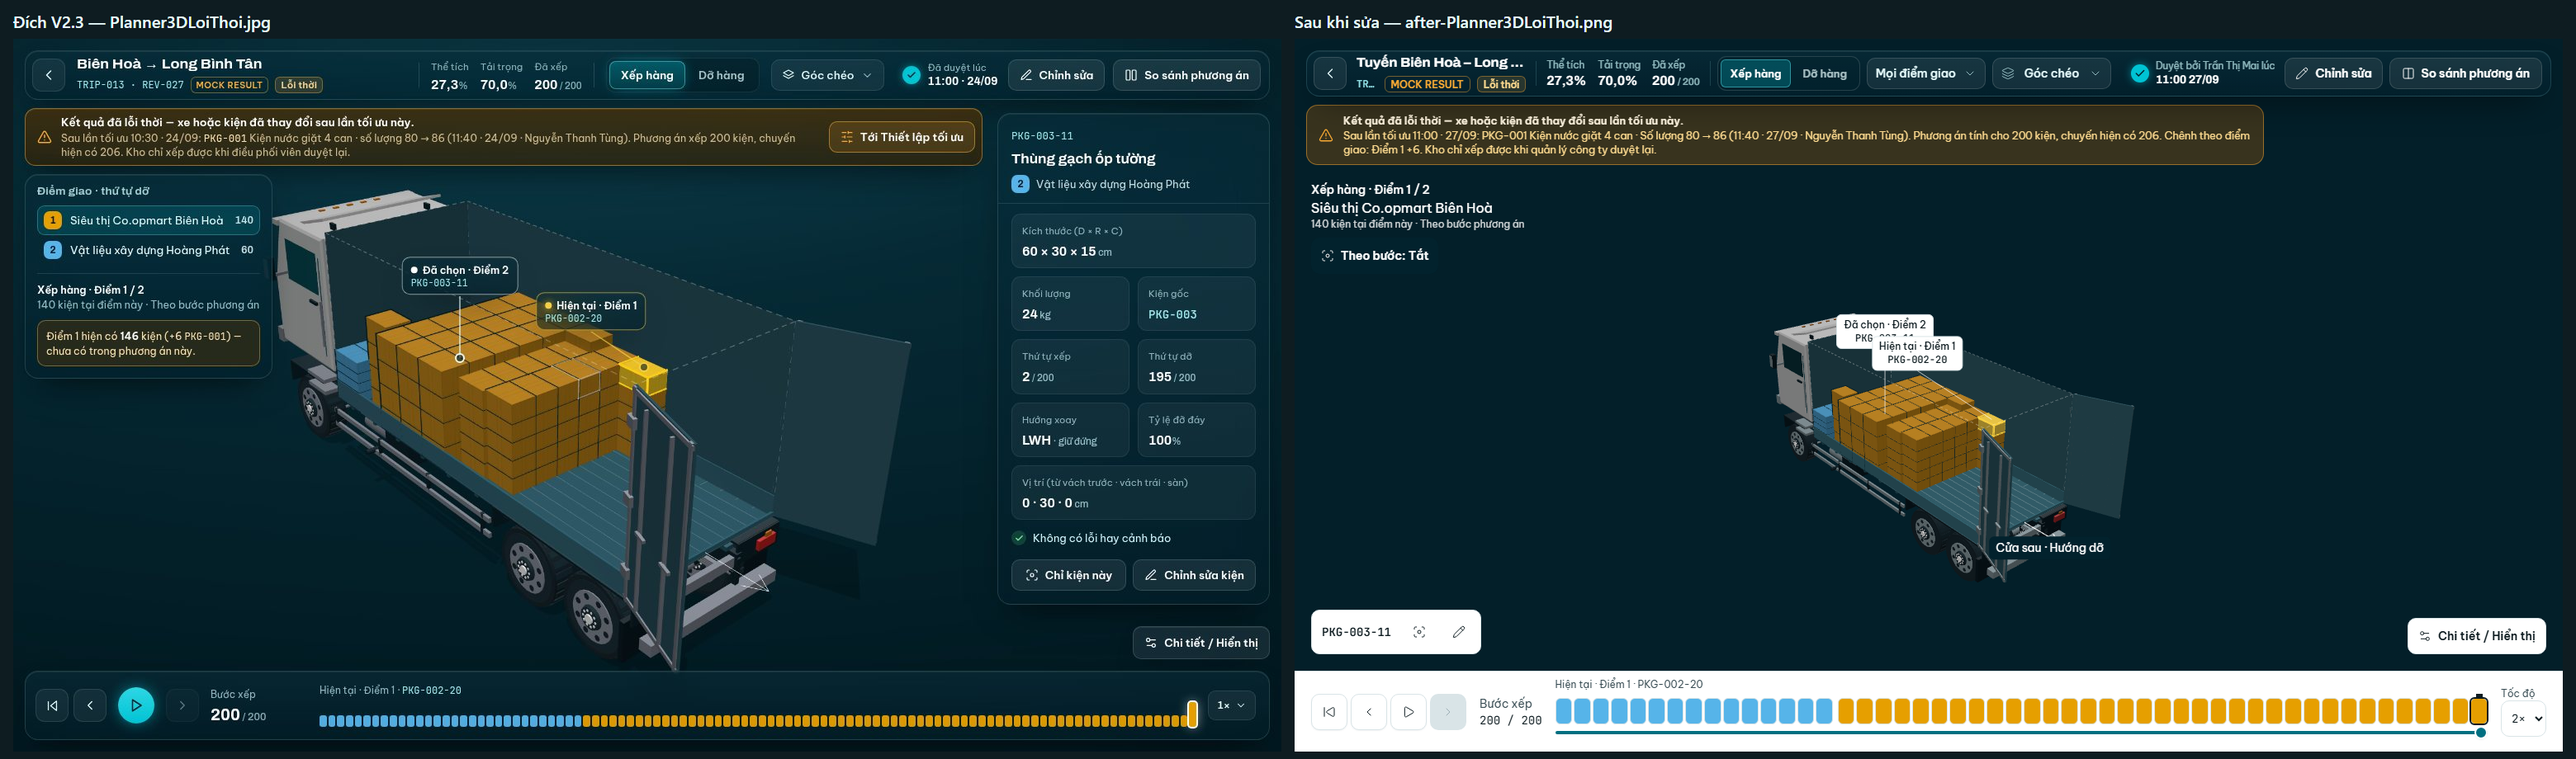
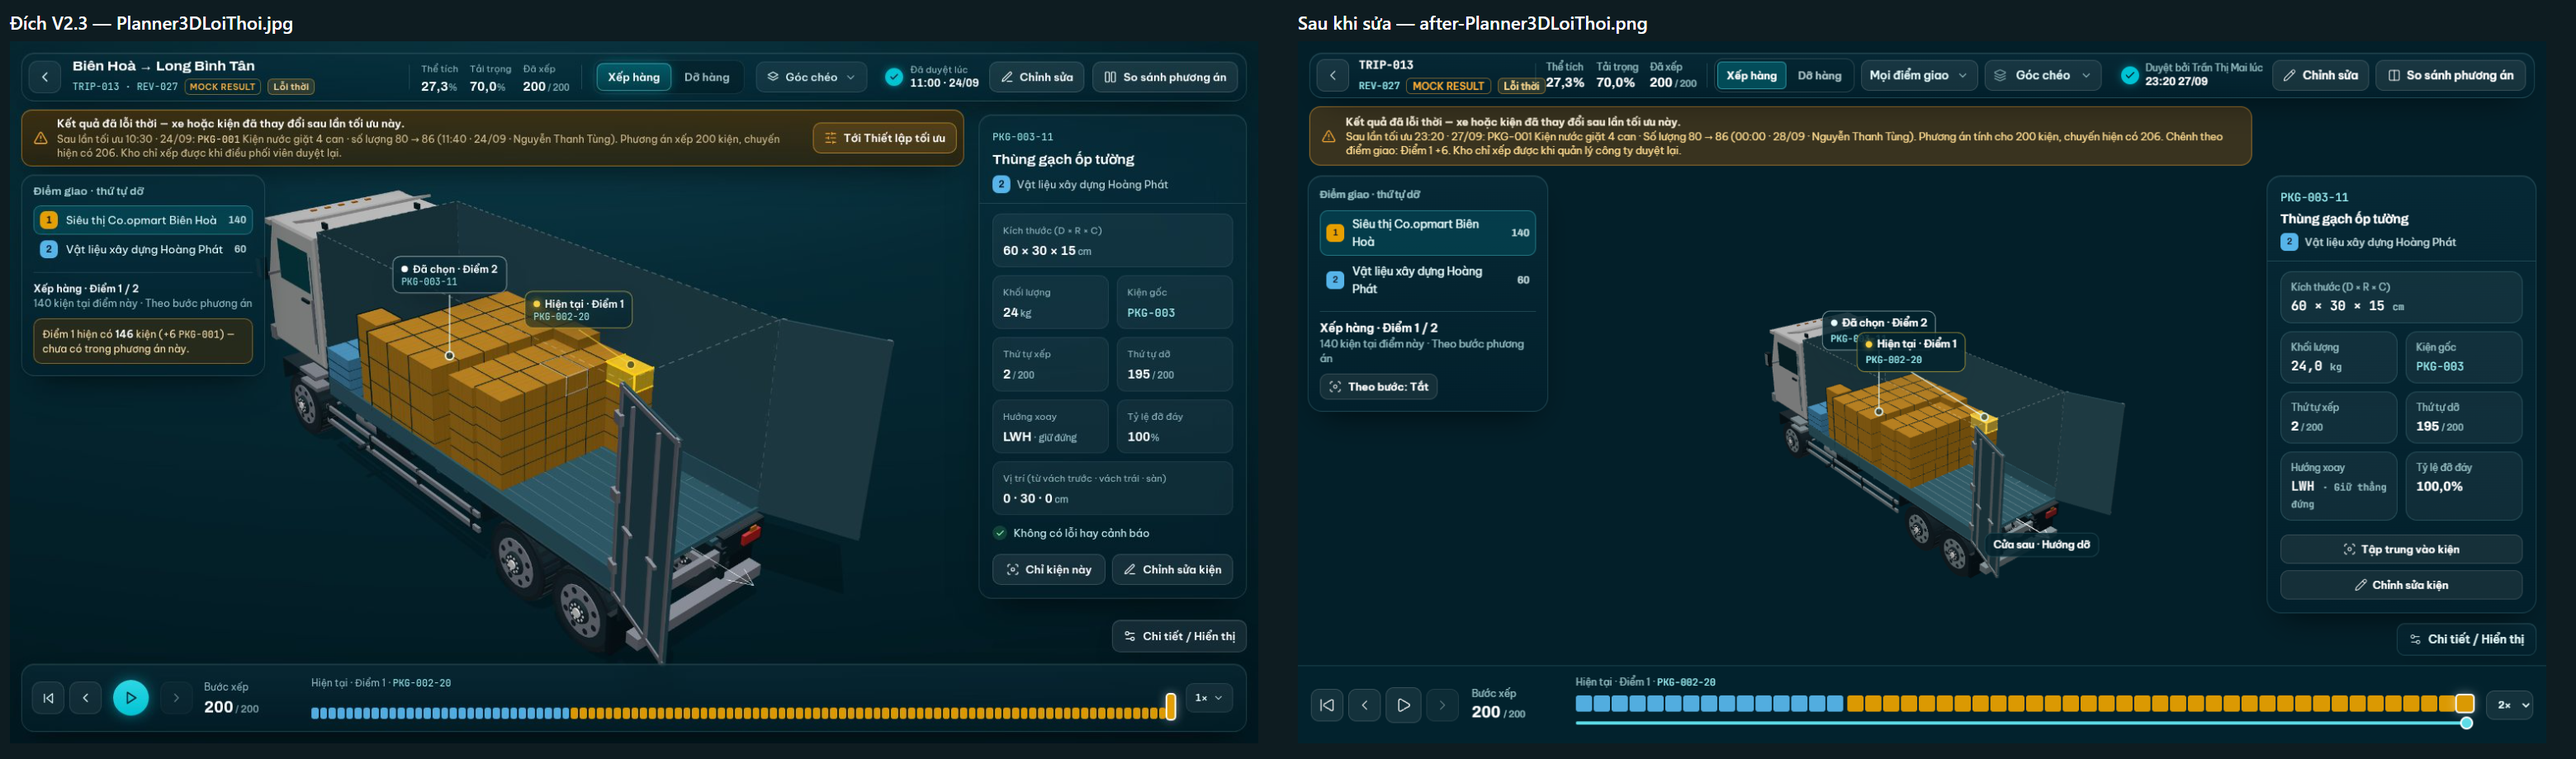
fix(viewer3d): tiêu đề Planner không cắt chữ, đơn vị và khối lượng như câu nghiệm thu; tài liệu đợt 5 (LM-107)
Tên tuyến chỉ hiện từ 1.680 px, hẹp hơn là mã chuyến; khoảng trắng thật giữa số và đơn vị, khối lượng một chữ số thập phân; khối Kiện chưa xếp là vùng có tên. Chụp lại các màn phần 1 trên nhánh gộp.

diff --git a/src/features/viewer3d/ViewerHeader.tsx b/src/features/viewer3d/ViewerHeader.tsx
@@ -48,14 +48,22 @@ export function ViewerHeader({ tripId, title, revisionId, metrics, placedCount, 
           <ChevronLeft className="size-5" strokeWidth={1.5} aria-hidden />
         </Link>
 
-        {/* Tên tuyến và mã cắt bằng dấu ba chấm để hàng gộp vừa 1.366 px; nhãn của kết quả không bao giờ bị cắt */}
+        {/* Không cắt chữ bằng dấu ba chấm (AGENTS mục 5, `layout-1366`): tên tuyến dài chỉ hiện từ 1.680 px; hẹp hơn tiêu đề là mã
+            chuyến và dòng dưới chỉ còn mã revision (LM-107) */}
         <div className="flex min-w-0 flex-[0_1_25rem] flex-col gap-1.5">
-          <h1 className="hidden truncate font-display text-h3 leading-5 font-bold text-sky-text font-stretch-106% md:block" title={title ?? tripId}>
-            {title ?? tripId}
+          <h1 className="hidden font-display text-h3 leading-5 font-bold whitespace-nowrap text-sky-text font-stretch-106% md:block" title={title ?? tripId}>
+            {title ? (
+              <>
+                <span className="hidden min-[1680px]:inline">{title}</span>
+                <span className="font-mono text-body min-[1680px]:hidden">{tripId}</span>
+              </>
+            ) : tripId}
           </h1>
           {/* Điện thoại: không có tên tuyến và mã, hai nhãn chính xếp chồng (22 + 4 + 22 px vừa hàng 56 px); Lỗi thời và LIFO tắt đã có ở thanh thông báo / hộp thoại */}
           <div className="flex min-w-0 flex-col items-start gap-1 md:flex-row md:items-center md:gap-2">
-            <span className="hidden min-w-0 truncate font-mono text-caption leading-4 text-cyan-200 md:inline">{codes}</span>
+            <span className="hidden font-mono text-caption leading-4 whitespace-nowrap text-cyan-200 md:inline">
+              {title ? <><span className="hidden min-[1680px]:inline">{codes}</span><span className="min-[1680px]:hidden">{revisionId ?? tripId}</span></> : codes}
+            </span>
             {isMockResult ? <Badge shape="tag" tone="mock" className="border-amber-500/45 text-amber-500">MOCK RESULT</Badge> : null}
             {manuallyEdited ? <Badge shape="tag" tone="azure" className="bg-azure-500/20 text-azure-200">{t('viewer.plan.manuallyEdited')}</Badge> : null}
             {stale ? <Badge shape="tag" outlined className="hidden border-amber-500/40 bg-amber-500/15 text-amber-200 md:inline-flex">{t('viewer.plan.staleTag')}</Badge> : null}

diff --git a/src/features/viewer3d/panels/PackageListPanel.tsx b/src/features/viewer3d/panels/PackageListPanel.tsx
@@ -1,5 +1,5 @@
 import { CheckCircle2, Pin } from 'lucide-react'
-import { useMemo, useState, type ReactNode } from 'react'
+import { useId, useMemo, useState, type ReactNode } from 'react'
 import { Link } from 'react-router'
 import type { ConstraintIssue } from '@/domain/constraints'
 import type { VehicleConfig } from '@/domain/models'
@@ -101,21 +101,23 @@ export function PackageListPanel({ unplaced, pinned, placements, vehicle, select
 function Section({ title, count, tone = 'plain', action, inline, hint, children }: {
   title: string; count: number; tone?: 'plain' | 'warn'; action?: ReactNode; inline?: string; hint?: string; children?: ReactNode
 }) {
+  const titleId = useId()
+  // Vùng có tên (tiêu đề khối): "Kiện chưa xếp", "Kiện đã ghim" đọc được như một mục riêng, thay các tab con cũ
   return (
-    <div className={cn('px-3 py-2.5', DARK_SUBCARD, tone === 'warn' && 'border-amber-500/35')} title={hint}>
-      <SectionHeader title={title} count={count} inline={inline} action={action} />
+    <section aria-labelledby={titleId} className={cn('px-3 py-2.5', DARK_SUBCARD, tone === 'warn' && 'border-amber-500/35')} title={hint}>
+      <SectionHeader titleId={titleId} title={title} count={count} inline={inline} action={action} />
       {children}
-    </div>
+    </section>
   )
 }
 
-function SectionHeader({ title, count, inline, note, action, className }: {
-  title: string; count: number; inline?: string; note?: string; action?: ReactNode; className?: string
+function SectionHeader({ titleId, title, count, inline, note, action, className }: {
+  titleId?: string; title: string; count: number; inline?: string; note?: string; action?: ReactNode; className?: string
 }) {
   const format = useFormat()
   return (
     <div className={cn('flex min-h-7.5 flex-wrap items-center gap-2', className)}>
-      <h3 className="font-semibold text-sky-text xl:text-lede">{title}</h3>
+      <h3 id={titleId} className="font-semibold text-sky-text xl:text-lede">{title}</h3>
       <span className="rounded-sm bg-sky-glass-hover px-1.5 py-0.5 font-display text-caption font-semibold tabular-nums">{format.integer(count)}</span>
       {inline ? <span className={cn('xl:text-fine', MUTED)}>· {inline}</span> : null}
       {note ? <span className={cn('ml-auto text-caption', MUTED)}>{note}</span> : null}

diff --git a/e2e/spec-flow.spec.ts b/e2e/spec-flow.spec.ts
@@ -228,9 +228,10 @@ test('cargo that does not fit lists unplaced packages with a reason in the Plann
 
   // §15 "Hiển thị kiện chưa xếp và lý do"
   const inspector = await openInspector(page, 'packages')
-  const tab = inspector.getByRole('tab', { name: `Kiện chưa xếp ${unplaced}`, exact: true })
-  await expect(tab).toHaveAttribute('aria-selected', 'true')
-  const list = inspector.getByRole('tabpanel', { name: `Kiện chưa xếp ${unplaced}` })
+  // V2.3 (LM-107): tab "Danh sách" xếp các khối chồng nhau — kiện chưa xếp là khối đầu, có số đếm
+  const list = inspector.getByRole('region', { name: 'Kiện chưa xếp', exact: true })
+  await expect(list.getByRole('heading', { name: 'Kiện chưa xếp', exact: true })).toBeVisible()
+  await expect(list).toContainText(String(unplaced))
   await expect(list).toContainText('PKG-007-')
   await expect(list).toContainText('Không vừa chỗ trống còn lại.')
 })

diff --git a/src/features/viewer3d/panels/SelectedPackagePanel.tsx b/src/features/viewer3d/panels/SelectedPackagePanel.tsx
@@ -87,7 +87,7 @@ function PackageDetails({ placement, placements, orientationRules, totalSteps, s
           <Cell label={t('viewer.selected.size')} wide>
             <GlassValue value={`${cm(placement.lengthCm)} × ${cm(placement.widthCm)} × ${cm(placement.heightCm)}`} unit="cm" mono />
           </Cell>
-          <Cell label={t('viewer.selected.weight')}><GlassValue value={format.weight(placement.weightKg)} mono /></Cell>
+          <Cell label={t('viewer.selected.weight')}><GlassValue value={format.decimal(placement.weightKg)} unit="kg" mono /></Cell>
           <Cell label={t('viewer.selected.sourcePackage')}>
             <Link to={`/chuyen/${tripId}?kien=${encodeURIComponent(placement.packageId)}`}
               className="font-mono text-body text-cyan-200 underline-offset-2 hover:underline focus-visible:outline-2 focus-visible:outline-primary">

diff --git a/src/features/viewer3d/panels/scene-ui.tsx b/src/features/viewer3d/panels/scene-ui.tsx
@@ -134,7 +134,8 @@ export function StopMark({ stop, decorative = false, className }: {
 export function GlassValue({ value, unit, mono = false, className }: { value: ReactNode; unit?: ReactNode; mono?: boolean; className?: string }) {
   return (
     <span className={cn(mono ? 'font-mono font-medium' : 'font-display font-[650]', 'text-sky-text tabular-nums', className)}>
-      {value}{unit !== undefined ? <small className={cn('ml-0.5 text-caption font-medium', MUTED)}>{unit}</small> : null}
+      {/* Khoảng trắng thật giữa số và đơn vị: chữ đọc được "120 × 100 × 100 cm" (trình đọc màn hình, sao chép, test nghiệm thu §15) */}
+      {value}{unit !== undefined ? <>{' '}<small className={cn('text-caption font-medium', MUTED)}>{unit}</small></> : null}
     </span>
   )
 }

diff --git a/docs/issues/LM-107-v23-planner.md b/docs/issues/LM-107-v23-planner.md
@@ -19,6 +19,78 @@ Màn (1536×864): `Planner3D`, `Planner3DChinhSua`, `Planner3DThongTin`, `Planne
 Bản mẫu vẽ trước LM-104: phần LM-104 thêm vào Planner (người duyệt là quản lý công ty, Từ chối / Yêu cầu tối ưu lại / Đề xuất, khoá
 `decided`, "Duyệt bởi … lúc …") **giữ nguyên chức năng**.
 
-## Danh sách lệch
+## Danh sách lệch (chụp trước khi sửa, 1536×864)
 
-## Kết quả
+Ảnh trước: `docs/screenshots/v2.3/dot5-planner/before-*.png`.
+
+**Toàn màn:** trang trắng và thanh trên trắng 56 px → nền `--canvas-1`, thanh `.glass-dark` nổi, bo góc, vẫn 56 px.
+
+**Thanh trên (`Planner3D`)**
+- Mã chuyến mono → `<h1>` tên tuyến (từ 1.680 px) + dòng "TRIP · REV" với tag MOCK RESULT, Đã chỉnh tay, **mới** Lỗi thời, "LIFO: tắt".
+- Chỉ số mono → Archivo trên nền tối, có vạch chia; Xếp/Dỡ và ô chọn sáng → nhóm kính và ô chọn kính (góc nhìn có icon từ 1.536 px).
+- "Đã duyệt lúc" vòng xanh lá → chấm cyan có quầng, hai dòng; Chỉnh sửa, So sánh, Từ chối, ⋯ dùng `variant="glass"`.
+
+**Trong khung 3D (`Planner3D`)**
+- Nhãn neo hộp sáng → thẻ tối hai dòng (vai trò · điểm giao / mã kiện cyan mono) + vòng neo trên điểm 3D; không thêm draw call.
+- Bên trái: chữ trần → panel tối liệt kê điểm giao theo thứ tự dỡ kèm số kiện, điểm hiện tại nổi bật, dòng bước và nút "Theo bước".
+- Kiện đang chọn: chỉ mở qua hộp thông tin → thẻ nổi bên phải từ 1.280 px (ô `viewer.selected.*`, tỷ lệ đỡ đáy %); hẹp hơn giữ thanh gọn.
+- Dòng thời gian trắng → thanh tối, số đếm Archivo, mã kiện hiện tại cyan mono.
+
+**Thông tin phương án (`Planner3DThongTin`):** hộp sáng có lớp phủ → panel tối đặc bên phải không làm mờ cảnh; tab là nhóm tối. Tab "Danh
+sách": tab con → ba khối xếp chồng (chưa xếp, đã ghim, đã xếp theo thứ tự xếp kèm tag "Đỡ đáy x%").
+
+**Chỉnh tay (`Planner3DChinhSua`):** thanh công cụ và panel sáng → tối; Hoàn tác / Làm lại có chữ; tag xám "Đã chỉnh thủ công" /
+"Nguyên bản"; nhích 6 nút một hàng (2 cột dưới 1.280 px để giữ 56 px); đủ 6 hướng đặt (hướng không cho phép vô hiệu); nút hút lưới kiểu
+công tắc; "Khôi phục mọi chỉnh sửa" viền đỏ; HUD góc trái: chip trạng thái + dòng phím tắt.
+
+**Không thể đặt (`Planner3DKhongTheDat`):** chip "Không thể đặt" + dòng vật cản (loại, mã, phạm vi X/Y/Z, chịu tải); ghi chú "đang kéo",
+điều khiển mờ và khoá khi kéo; chú giải 3 trạng thái (quyết định 3: đã dời hợp lệ = xanh + tag xám, ràng buộc thật = hổ phách, lỗi cứng =
+đỏ); nhãn kéo đỏ "Không thể đặt · Điểm N", tag đỏ trên vật cản. `useEditorValidation` trả thêm `manual`, `obstacleIds`.
+
+**Dỡ hàng (`Planner3DDoHang`):** panel nổi "Thứ tự dỡ" (dòng hiện tại / tiếp theo, ghi chú nhất quán thứ tự, khối "Kiện chắn lối dỡ" có
+tag "Kiểm tra LIFO", ghi chú hành lang); HUD trái hộp hổ phách "Lối dỡ bị che kín · Đã tạm dừng" + "Bỏ qua bước trong mô phỏng".
+
+**Hộp thoại Duyệt (`Planner3DDuyet`, `Planner3DTatLIFO`):** tiêu đề trần → `DialogHeader` có ô icon và nút ×; ô số Archivo; dòng "Không
+có lỗi chặn duyệt"; hộp hổ phách liệt kê 3 cảnh báo đầu + "… và N cảnh báo khác"; kiện đã chỉnh là chip; MOCK RESULT ở chân. Tắt LIFO:
+"Cả N cảnh báo đến từ kiểm tra LIFO …" + nút "Xem mô phỏng dỡ hàng" (đóng hộp thoại, rời Chỉnh sửa, chuyển sang Dỡ hàng).
+
+**Lỗi thời (`Planner3DLoiThoi`):** dải hổ phách một câu → thanh nêu mục đã đổi (trước → sau, giờ, người sửa), số kiện phương án ↔ chuyến,
+chênh theo điểm giao, "Kho chỉ xếp được khi quản lý công ty duyệt lại", "Tới Thiết lập tối ưu" (khi có quyền chạy tối ưu).
+
+**Khoá theo pha (`Planner3DKhoa`):** dải xám → thanh cyan với lý do + "Kho đã xếp 110 / 280 kiện · bắt đầu … · người".
+
+**Chỉ xem (`Planner3DQuanLy`):** từ LM-104 quản lý là người duyệt, nên trạng thái chỉ xem nay là của **điều phối viên** — thanh kính
+trung tính cùng câu "Chờ quản lý công ty duyệt".
+
+**Bản chưa duyệt (`Planner3DBanChuaDuyet`) — mới:** thanh "Đang xem REV-001 — kết quả tối ưu lúc …, chưa duyệt. Kho và tài xế đang đọc bản
+đã duyệt REV-002 (…)" + nút "Mở bản đã duyệt REV-002"; bản đã duyệt lỗi thời thì dòng hai nói vậy.
+
+## Kết quả (28/09/2026)
+
+Hai phần song song trong worktree riêng (thanh trên + duyệt + thanh thông báo; phần trong khung 3D + chỉnh tay + dỡ hàng), không chung file;
+người điều phối gộp, sửa trên nhánh gộp rồi chụp lại các màn của phần 1. Ảnh sau + ghép: `after-*.png`, `so-sanh/`.
+
+- Sửa trên nhánh gộp: tiêu đề thanh trên không cắt chữ (`layout-1366` đỏ ở 1.366 / 1.600 px); khoảng trắng giữa số và đơn vị, khối lượng
+  một chữ số thập phân như trước ("200,0 kg", nghiệm thu §15 trong `spec-flow`); khối "Kiện chưa xếp" là vùng có tên thay tab con;
+  `review1-approve` chờ màn chính dựng xong mới điều hướng (đỏ ngẫu nhiên 2/5 lần).
+- Kiểm tra: tsc, lint, build sạch; 970/970 unit/DOM; E2E đủ bộ lần đầu 91/94 (3 đỏ ở `spec-flow`, đã sửa); chạy lại `spec-flow` 7/7,
+  `layout-1366` + `planner-compact` 7/7, `viewer-ui` + `viewer-scene-first-ui` + `i18n-en` xanh.
+
+**Lệch có chủ ý**
+- Không gradient trên nút nhấn giữ (Xếp/Dỡ, Theo bước): nền cyan mờ + viền trong (AGENTS §5). Nút Phát là nút kính, không tròn cyan (một nút
+  chính mỗi màn; không bo tròn nút hành động).
+- Ô dòng thời gian cao bằng nhau (AGENTS §7, có E2E), không phóng ô hiện tại.
+- Hộp Chi tiết / Hiển thị là panel tối đặc (bề mặt đọc lâu), không kính; nhãn neo nền đặc 85 % thay `backdrop-filter`.
+- Số đo và mã giữ JetBrains Mono; bản mẫu dùng Archivo.
+- Ô chọn điểm giao giữ trên thanh trên (E2E và test "một hàng" cần), nên tên tuyến chỉ hiện từ 1.680 px.
+- Thanh thông báo nằm trong luồng trang, không nổi đè lên cảnh.
+- "Chỉ kiện này" → "Tập trung vào kiện" (Planner không có chế độ chỉ hiện một kiện).
+- Dữ liệu theo seed: TRIP-013 là REV-027, TRIP-011 REV-024, ngày neo hôm nay; seed không có phương án tắt LIFO nên ảnh Tắt LIFO dùng một lần
+  chạy tạo trong script (71 cảnh báo, bản mẫu 72) và ảnh Dỡ hàng bị che dùng `?debug&packages=132`.
+- Camera chừa chỗ cho panel nổi nên xe nhỏ hơn bản mẫu một chút; thẻ kiện đang chọn tự cuộn khi cao hơn khung 864 px.
+
+**Còn lại**
+- Số chênh theo điểm giao trong danh sách điểm bên trái (bản mẫu "Điểm 1 hiện có 146 kiện (+6 …)"): `planTripDelta` đã có, `SceneHud` chưa
+  nhận `source` từ `ViewerSession` — thanh thông báo lỗi thời đã nêu chênh theo điểm.
+- Dùng chung: `Dialog` chưa có kiểu panel không lớp phủ (hộp Chi tiết tự dựng); `Badge` chưa có tông cho nền tối (`panels/scene-ui.tsx`
+  có bản cục bộ); `DecisionSummary` cần `tone="dark"`; chưa có token kính tối hổ phách / đỏ (đang dùng thang token kèm độ mờ).

diff --git a/AGENTS.md b/AGENTS.md
@@ -431,6 +431,13 @@ Mẫu: `design/v2.3/screens/web/ThanhPhan.jpg`, `TrangThaiChung.jpg`, `MenuToanC
 Xếp/Dỡ, điểm giao, góc nhìn, trạng thái duyệt, Chỉnh sửa, So sánh, Duyệt); hẹp hơn thì điều khiển mô phỏng và Chỉnh sửa xuống thanh
 công cụ riêng (tablet hai hàng 56 px). Thêm gì vào hàng này phải đo lại ở 1.366 px (`e2e/planner-compact.spec.ts`). Thanh công cụ
 Planner dùng `PlannerSelect` (Select Radix); ô chọn kiện (tới 1.000 dòng) giữ `<select>` gốc.
+*(đã điều chỉnh 28/09/2026, V2.3, LM-107)* Trang Planner nền tối `--canvas-1`; thanh trên là kính tối (`.glass-dark`) nổi cách mép 14 px
+từ 1.280 px, vẫn cao 56 px. Tiêu đề là tên tuyến **chỉ từ 1.680 px**; hẹp hơn là mã chuyến và dòng dưới chỉ còn mã revision — không cắt chữ
+bằng dấu ba chấm (`layout-1366`). Thanh thông báo (lỗi thời, khoá theo pha, bản chưa duyệt, quyết định của quản lý, chỉ xem) nằm trong
+luồng trang giữa thanh trên và khung 3D (`PlannerNotices`), không nổi đè lên cảnh. Panel trong khung 3D dùng kính tối; bề mặt đọc lâu
+(hộp Chi tiết / Hiển thị, thẻ kiện đang chọn) nền tối đặc. Nhãn neo trên kiện là thẻ tối hai dòng (vai trò · điểm giao / mã kiện) dựng
+bằng DOM/SVG, nền đặc 85 % thay `backdrop-filter` vì chúng di chuyển mỗi khung hình. Nút nhấn giữ (Xếp/Dỡ, Theo bước) là nền cyan mờ +
+viền trong, không gradient. Số đo và mã giữ JetBrains Mono; đơn vị có khoảng trắng thật sau số ("120 × 100 × 100 cm", "200,0 kg").
 
 *(đã điều chỉnh 26/09/2026, V2.3)* Thanh tiêu đề của màn trong khung ứng dụng nằm trên **dải trời** nên cao theo nội dung (tiêu
 đề 32 px + mô tả, thêm tab nếu màn có), không còn cố định 72 px. Chỉ **56px** cho màn xem phương án 3D, vì ở đó chiều cao nhường cho

diff --git a/docs/progress.md b/docs/progress.md
@@ -34,6 +34,13 @@ Trạng thái: ⬜ Chưa bắt đầu · 🟦 Đang làm · 🟨 Chờ / bị ch
 
 ## 2. Nhật ký
 
+### 28/09/2026 — V2.3 đợt 5: Planner 3D (LM-107)
+
+Hai worktree song song: thanh trên + hộp thoại Duyệt + thanh thông báo (lỗi thời, khoá theo pha, bản chưa duyệt, chỉ xem) và phần trong
+khung 3D (panel điểm giao, thẻ kiện nổi, nhãn neo, dòng thời gian, hộp Chi tiết, chỉnh tay, không thể đặt, dỡ hàng). Nền trang Planner tối,
+thanh trên kính tối. Sửa trên nhánh gộp: tiêu đề không cắt chữ ở 1.366 px, đơn vị và khối lượng như câu nghiệm thu, `review1-approve` hết đỏ
+ngẫu nhiên. 970/970 unit/DOM; E2E xem [LM-107](issues/LM-107-v23-planner.md).
+
 ### 27/09/2026 — Thương hiệu đợt 3: in ấn và màn kho (LM-105)
 
 Logo một màu trên nhãn QR (bản xem và bản in) và đầu báo cáo chuyến bản in; biểu tượng ở màn chính của kho. Không thêm logo vào thanh
